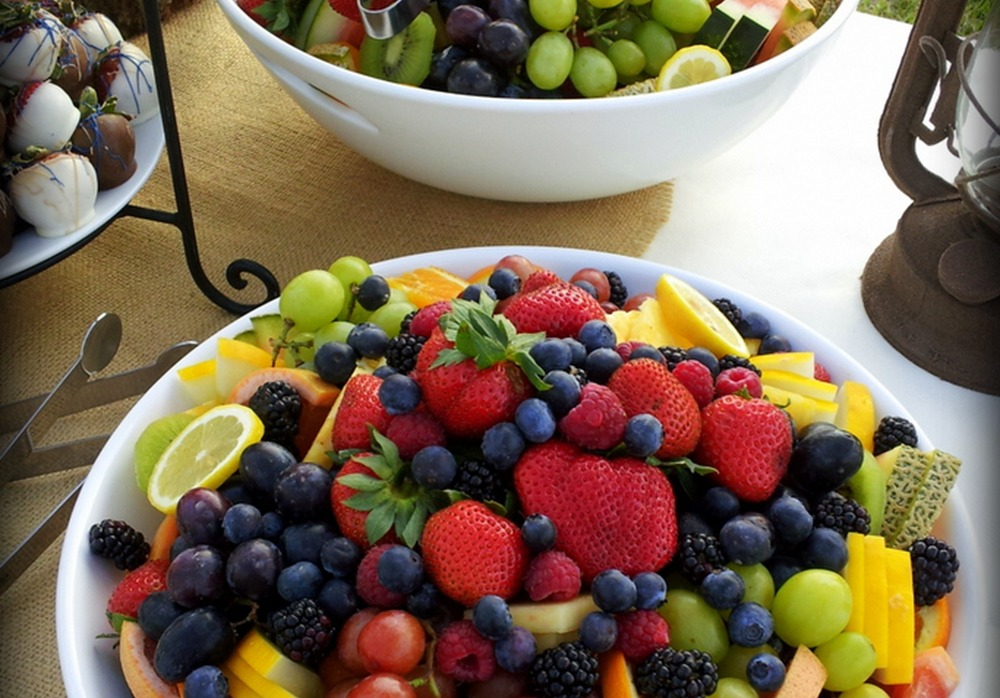
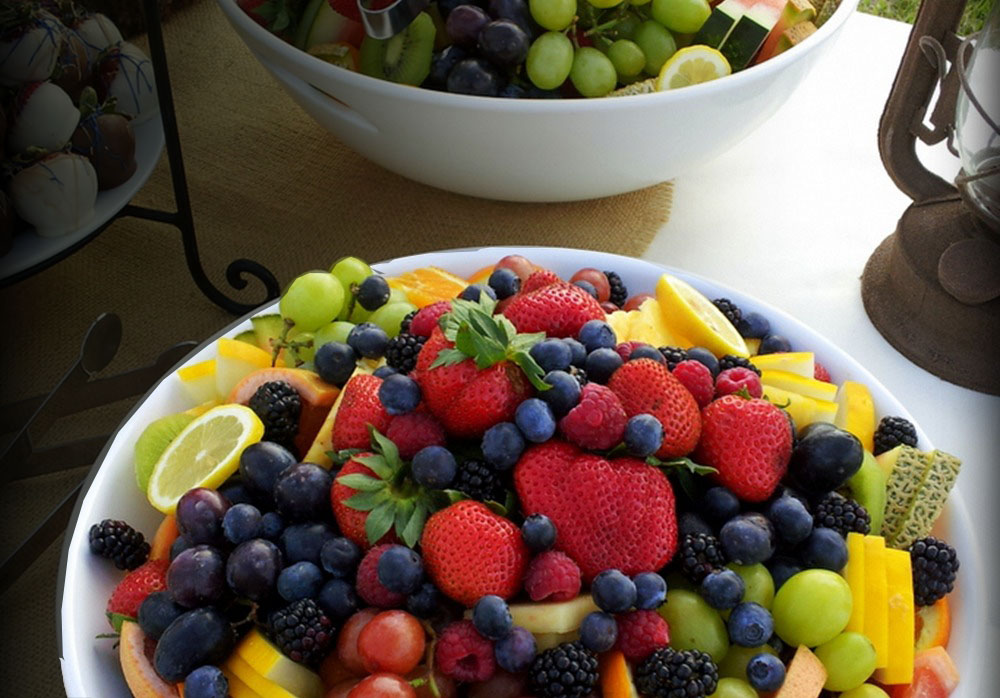
hero with text overaly. Fonts installed.

Changed region(s): [[0.0, 0.0, 0.682, 1.0], [0.62, 0.361, 0.651, 0.3911]]

diff --git a/index.html b/index.html
@@ -17,6 +17,8 @@
   <!--Font Awesome-->
   <script src="https://kit.fontawesome.com/b0cd4101cb.js" crossorigin="anonymous"></script>
   <!--Google Fonts-->
+  <link href="https://fonts.googleapis.com/css?family=Great+Vibes&display=swap" rel="stylesheet">
+  <link href="https://fonts.googleapis.com/css?family=Raleway:400,400i,500,500i&display=swap" rel="stylesheet">
 
 
   <link rel="stylesheet" href="css/normalize.css">
@@ -28,7 +30,7 @@
 <body>
   <nav id="ss-navbar"class="navbar navbar-expand-sm fixed-top bg-dark navbar-dark"> 
     <!--Brand-->
-    <a class="navbar-brand" href="#">S &amp; S</a>
+    <a class="script-text navbar-brand" href="#">S &amp; S</a>
     <!--Toggle collapse-->
     <buttton class="navbar-toggler" type="button" data-toggle="collapse" data-target="#collapsing-navbar">
       <span class="navbar-toggler-icon"></span>
@@ -53,15 +55,15 @@
 
   <!--Hero-->
   <div id="hero" class="container"> 
-    <img id="home-hero-img" class="img img-fluid d-block" src="img/s&sjumbotron-home.jpg" alt="Fruit Plate">
-    <div id="hero-logo" class="bg-dark text-light">
-      <h1 class="logo-title-text">Sugar<br> & Spice</h1>
-      <h5 class="logo-sub-text">Catering</h5>
+    <img id="home-hero-img" class="img img-fluid d-block" src="img/s&sjumbotron-home-1.jpg" alt="Fruit Plate">
+    <div id="hero-logo" class="text-light">
+      <h1 class="script-text logo-title-text">Sugar<br> & Spice</h1>
+      <h5 class="script-text logo-sub-text">Catering</h5>
     </div>
   </div>
 
   <!--About Section-->
-  <div class="container bg-info">
+  <div id="about" class="container bg-info">
     <h2 class="ml-3">My Story</h2>
     <div class="row">
       <div class ="col-sm-6">
@@ -79,7 +81,7 @@
     </div>
   </div>
   <!--Services Section-->
-  <div class="container bg-success">
+  <div id="services" class="container bg-success">
     <h2 class="ml-3">Services</h2>
     <div class="row justify-content-around">
       <div class="col-sm-6">
@@ -108,7 +110,7 @@
     </div>
   </div>
   <!--Reviews Section-->
-  <div class="container bg-warning">
+  <div id="reviews"class="container bg-warning">
     <div class="row">
       <div class=" col-sm-12 ml-3">
         <h2 >Rave Reviews</h2>
@@ -363,7 +365,7 @@
      
   <!--Footer-->
   <div class="container bg-danger" id="footer">
-    <div class="row">
+    <div class="text-center"
       <div id="contact-info" class="col-sm-4 ml-5">
         <h2>Get in touch</h2>
         <p>Sugar & Spice Catering
@@ -374,15 +376,12 @@
         </p>
         <button class="btn btn-info" type="button" data-toggle="modal" data-target="#footer-contact-modal">Send us a note</button>
       </div>
-      <div id="social-media-container" class="col-sm-2 text-center">
-        
-          <i class="fab fa-facebook-square sm-icons"></i>
-          <i class="fab fa-instagram sm-icons"></i>
-      
+      <div id="social-media-container" class="text-center">
+        <h4>Follow Us</h4>
+        <i class="fab fa-facebook-square sm-icons"></i>
+        <i class="fab fa-instagram sm-icons"></i>
       </div>
       <div id="footer-img-container" class="col-sm-5">
-        <img id="footer-img" class="img img-fluid d-block float-md-right" src="img/footer-spread.jpg" alt="Footer Image">
-      </div>
     </div>
 
   <!--FOOTER FORM MODAL-->

diff --git a/css/main.css b/css/main.css
@@ -101,6 +101,7 @@ textarea {
 html,
 body {
   background:rgb(255, 250, 205);
+  font-family: 'Raleway', sans-serif;
 }
 
 #hero {
@@ -121,17 +122,22 @@ body {
   left:5%;
   padding:0 5px 5px;
   border-radius:5px;
+
 }
 
 .logo-title-text{
   margin:0 auto;
-  font-size:5vw;
+  font-size:8vw;
 }
 
 .logo-sub-text{
-  font-size:3vw;
+  font-size:5vw;
+  margin-top:-5px;
 }
 
+.script-text{
+  font-family: 'Great Vibes', cursive;
+}
 
 
 
